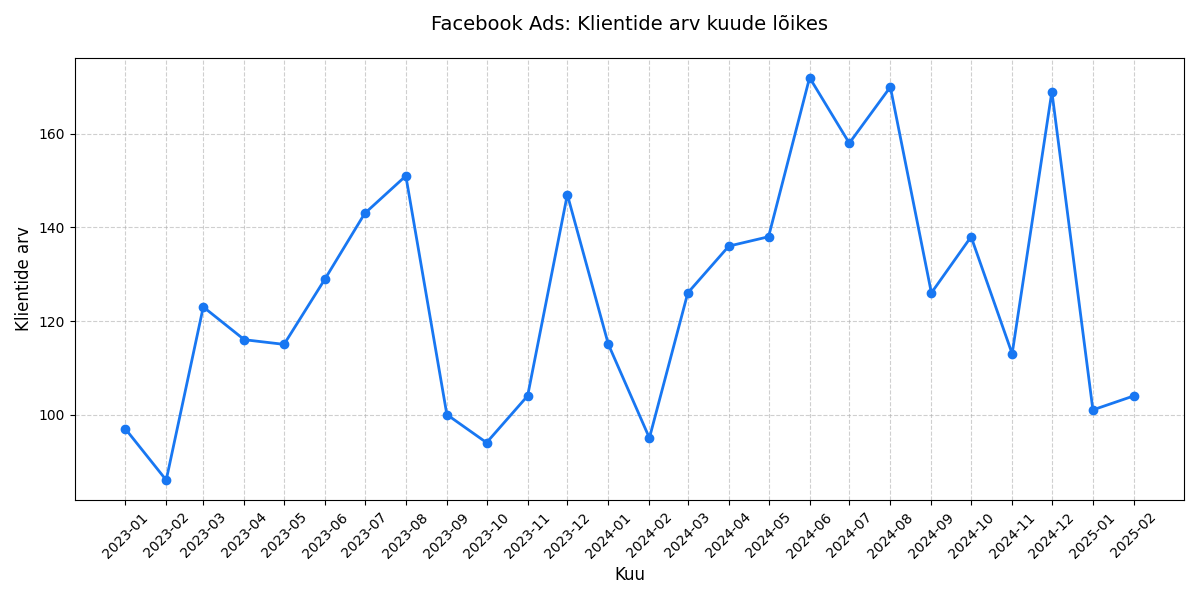
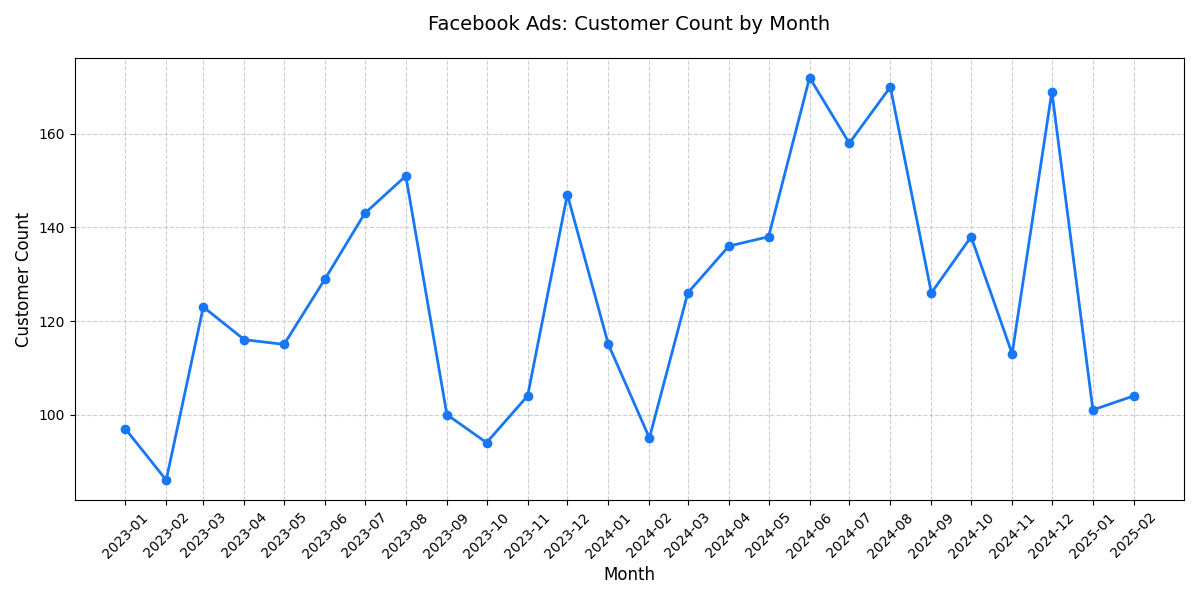
Translate week 4 Python script and sample chart

Changed region(s): [[0.3394, 0.0301, 0.7098, 0.0601], [0.0, 0.3606, 0.0309, 0.571], [0.4937, 0.9316, 0.5555, 0.9917]]

diff --git a/portfolio/week-04/individual/facebook_ads_monthly_customers_chart.py b/portfolio/week-04/individual/facebook_ads_monthly_customers_chart.py
@@ -2,56 +2,55 @@ import pandas as pd
 import matplotlib.pyplot as plt
 import json
 
-# Sinu JSON andmed
+# JSON data
 data = [
-    {"turunduskanal": "facebook ads", "kuu": "2024-12", "klientide_arv": 169},
-    {"turunduskanal": "facebook ads", "kuu": "2023-12", "klientide_arv": 147},
-    {"turunduskanal": "facebook ads", "kuu": "2023-03", "klientide_arv": 123},
-    {"turunduskanal": "facebook ads", "kuu": "2024-06", "klientide_arv": 172},
-    {"turunduskanal": "facebook ads", "kuu": "2024-03", "klientide_arv": 126},
-    {"turunduskanal": "facebook ads", "kuu": "2023-06", "klientide_arv": 129},
-    {"turunduskanal": "facebook ads", "kuu": "2023-07", "klientide_arv": 143},
-    {"turunduskanal": "facebook ads", "kuu": "2024-10", "klientide_arv": 138},
-    {"turunduskanal": "facebook ads", "kuu": "2024-08", "klientide_arv": 170},
-    {"turunduskanal": "facebook ads", "kuu": "2024-04", "klientide_arv": 136},
-    {"turunduskanal": "facebook ads", "kuu": "2023-11", "klientide_arv": 104},
-    {"turunduskanal": "facebook ads", "kuu": "2023-08", "klientide_arv": 151},
-    {"turunduskanal": "facebook ads", "kuu": "2025-02", "klientide_arv": 104},
-    {"turunduskanal": "facebook ads", "kuu": "2024-05", "klientide_arv": 138},
-    {"turunduskanal": "facebook ads", "kuu": "2023-05", "klientide_arv": 115},
-    {"turunduskanal": "facebook ads", "kuu": "2023-10", "klientide_arv": 94},
-    {"turunduskanal": "facebook ads", "kuu": "2023-04", "klientide_arv": 116},
-    {"turunduskanal": "facebook ads", "kuu": "2023-02", "klientide_arv": 86},
-    {"turunduskanal": "facebook ads", "kuu": "2024-07", "klientide_arv": 158},
-    {"turunduskanal": "facebook ads", "kuu": "2024-02", "klientide_arv": 95},
-    {"turunduskanal": "facebook ads", "kuu": "2024-11", "klientide_arv": 113},
-    {"turunduskanal": "facebook ads", "kuu": "2024-01", "klientide_arv": 115},
-    {"turunduskanal": "facebook ads", "kuu": "2024-09", "klientide_arv": 126},
-    {"turunduskanal": "facebook ads", "kuu": "2023-09", "klientide_arv": 100},
-    {"turunduskanal": "facebook ads", "kuu": "2025-01", "klientide_arv": 101},
-    {"turunduskanal": "facebook ads", "kuu": "2023-01", "klientide_arv": 97}
+    {"marketing_channel": "facebook ads", "month": "2024-12", "customer_count": 169},
+    {"marketing_channel": "facebook ads", "month": "2023-12", "customer_count": 147},
+    {"marketing_channel": "facebook ads", "month": "2023-03", "customer_count": 123},
+    {"marketing_channel": "facebook ads", "month": "2024-06", "customer_count": 172},
+    {"marketing_channel": "facebook ads", "month": "2024-03", "customer_count": 126},
+    {"marketing_channel": "facebook ads", "month": "2023-06", "customer_count": 129},
+    {"marketing_channel": "facebook ads", "month": "2023-07", "customer_count": 143},
+    {"marketing_channel": "facebook ads", "month": "2024-10", "customer_count": 138},
+    {"marketing_channel": "facebook ads", "month": "2024-08", "customer_count": 170},
+    {"marketing_channel": "facebook ads", "month": "2024-04", "customer_count": 136},
+    {"marketing_channel": "facebook ads", "month": "2023-11", "customer_count": 104},
+    {"marketing_channel": "facebook ads", "month": "2023-08", "customer_count": 151},
+    {"marketing_channel": "facebook ads", "month": "2025-02", "customer_count": 104},
+    {"marketing_channel": "facebook ads", "month": "2024-05", "customer_count": 138},
+    {"marketing_channel": "facebook ads", "month": "2023-05", "customer_count": 115},
+    {"marketing_channel": "facebook ads", "month": "2023-10", "customer_count": 94},
+    {"marketing_channel": "facebook ads", "month": "2023-04", "customer_count": 116},
+    {"marketing_channel": "facebook ads", "month": "2023-02", "customer_count": 86},
+    {"marketing_channel": "facebook ads", "month": "2024-07", "customer_count": 158},
+    {"marketing_channel": "facebook ads", "month": "2024-02", "customer_count": 95},
+    {"marketing_channel": "facebook ads", "month": "2024-11", "customer_count": 113},
+    {"marketing_channel": "facebook ads", "month": "2024-01", "customer_count": 115},
+    {"marketing_channel": "facebook ads", "month": "2024-09", "customer_count": 126},
+    {"marketing_channel": "facebook ads", "month": "2023-09", "customer_count": 100},
+    {"marketing_channel": "facebook ads", "month": "2025-01", "customer_count": 101},
+    {"marketing_channel": "facebook ads", "month": "2023-01", "customer_count": 97}
 ]
 
-# 1. Teeme andmed DataFrame'iks
+# Convert data to DataFrame
 df = pd.DataFrame(data)
 
-# 2. Muudame 'kuu' veeru kuupäeva tüübiks ja sorteerime
-df['kuu'] = pd.to_datetime(df['kuu'])
-df = df.sort_values('kuu')
+# Convert 'month' column to datetime and sort
+df["month"] = pd.to_datetime(df["month"])
+df = df.sort_values("month")
 
-# 3. Joonistame graafiku
-plt.figure(figsize=(12, 6))
-plt.plot(df['kuu'], df['klientide_arv'], marker='o', linestyle='-', color='#1877F2', linewidth=2)
+# Plot the chart
+plt.figure(figsize=(12, 6)) # Define figure size
+plt.plot(df["month"], df["customer_count"], marker="o", linestyle="-", color="#1877F2", linewidth=2)
 
-# 4. Kujundus
-plt.title('Facebook Ads: Klientide arv kuude lõikes', fontsize=14, pad=20)
-plt.xlabel('Kuu', fontsize=12)
-plt.ylabel('Klientide arv', fontsize=12)
-plt.grid(True, linestyle='--', alpha=0.6)
-plt.xticks(df['kuu'], df['kuu'].dt.strftime('%Y-%m'), rotation=45)
+# Styling
+plt.title("Facebook Ads: Customer Count by Month", fontsize=14, pad=20)
+plt.xlabel("Month", fontsize=12)
+plt.ylabel("Customer Count", fontsize=12)
+plt.grid(True, linestyle="--", alpha=0.6)
+plt.xticks(df["month"], df["month"].dt.strftime("%Y-%m"), rotation=45)
 
-# Hoiame ära siltide lõikumise
-plt.tight_layout()
-
-# 5. Näitame graafikut
+# Prevent labels from overlapping
+plt.tight_layout() 
+# Show the chart
 plt.show()
